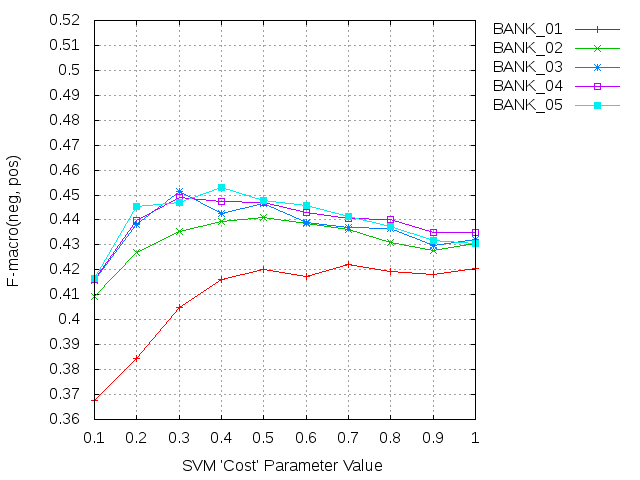
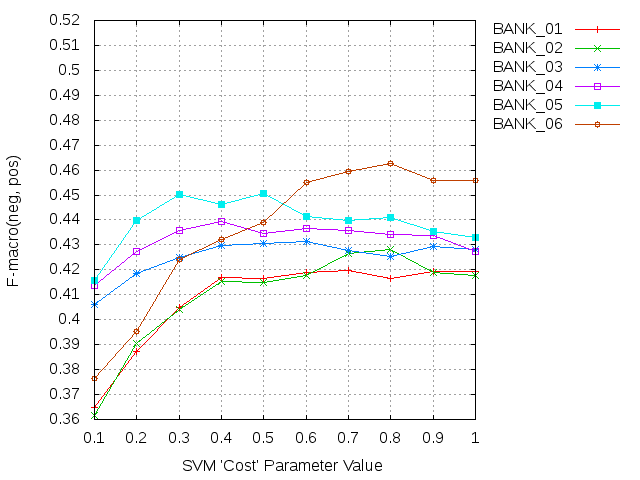
Исправлен график с результатом для bank, исправлено содержания (улучшения теперь рассматриваются после всех результатов), исправлены ошибки и формат таблиц

diff --git a/doc/aidt/tex/parts/2015/tables/settings.tex b/doc/aidt/tex/parts/2015/tables/settings.tex
@@ -4,13 +4,13 @@
 \label{table:settings}
 \begin{tabular}{cccccccccccc}
 \hline
-\multicolumn{1}{c|}{}  & \multicolumn{1}{c|}{}      & \multicolumn{1}{c|}{}                                                       & \multicolumn{3}{c|}{$L_{1}$}                                                            & \multicolumn{3}{c|}{$L_{2}$}                                                            & \multicolumn{3}{c}{$L_{3}$}                                           \\ \cline{4-12}
-\multicolumn{1}{c|}{№} & \multicolumn{1}{c|}{Terms} & \multicolumn{1}{c|}{\begin{tabular}[c]{@{}c@{}}All\\ features\end{tabular}} & \multicolumn{1}{c|}{$\sum$} & \multicolumn{1}{c|}{$max$} & \multicolumn{1}{c|}{$min$} & \multicolumn{1}{c|}{$\sum$} & \multicolumn{1}{c|}{$max$} & \multicolumn{1}{c|}{$min$} & \multicolumn{1}{c|}{$\sum$} & \multicolumn{1}{c|}{$max$} & $min$    \\ \hline
-1                      & $\bullet$                  &                                                                             &                             &                             &                             &                             &                             &                             &                             &                             &           \\
-2                      & $\bullet$                  & $\bullet$                                                                   &                             &                             &                             &                             &                             &                             &                             &                             &           \\
-3                      & $\bullet$                  & $\bullet$                                                                   & $\bullet$                   &                             &                             &                             &                             &                             &                             &                             &           \\
-4                      & $\bullet$                  & $\bullet$                                                                   & $\bullet$                   &                             &                             & $\bullet$                   &                             &                             &                             &                             &           \\
-5                      & $\bullet$                  & $\bullet$                                                                   & $\bullet$                   &                             &                             & $\bullet$                   &                             &                             & $\bullet$                   &                             &           \\
-6                      & $\bullet$                  & $\bullet$                                                                   & $\bullet$                   & $\bullet$                   & $\bullet$                   & $\bullet$                   & $\bullet$                   & $\bullet$                   & $\bullet$                   & $\bullet$                   & $\bullet$ \\ \hline
+\multicolumn{1}{c|}{\multirow{2}{*}{№}} & \multicolumn{1}{c|}{\multirow{2}{*}{Термы}} & \multicolumn{1}{c|}{\multirow{2}{*}{\begin{tabular}[c]{@{}c@{}}Все\\ признаки\end{tabular}}} & \multicolumn{3}{c|}{$l_{1}$}                                                                                      & \multicolumn{3}{c|}{$l_{2}$}                                                                                     & \multicolumn{3}{c}{$l_{3}$}                                                                 \\ \cline{4-12}
+\multicolumn{1}{c|}{}                   & \multicolumn{1}{c|}{}                       & \multicolumn{1}{c|}{}                                                                        & \multicolumn{1}{c|}{$\sum$} & \multicolumn{1}{c|}{$\max\limits_{1..N}$} & \multicolumn{1}{c|}{$\min\limits_{1..N}$} & \multicolumn{1}{c|}{$\sum$} & \multicolumn{1}{c|}{$\max\limits_{1..N}$} & \multicolumn{1}{c|}{$\min\limits_{1..N}$} & \multicolumn{1}{c|}{$\sum$} & \multicolumn{1}{c|}{$\max\limits_{1..N}$} & $\min\limits_{1..N}$ \\ \hline
+1                                       & $\bullet$                                   &                                                                                              &                             &                                          &                                          &                            &                                          &                                          &                            &                                          &                     \\
+2                                       & $\bullet$                                   & $\bullet$                                                                                    &                             &                                          &                                          &                            &                                          &                                          &                            &                                          &                     \\
+3                                       & $\bullet$                                   & $\bullet$                                                                                    & $\bullet$                   &                                          &                                          &                            &                                          &                                          &                            &                                          &                     \\
+4                                       & $\bullet$                                   & $\bullet$                                                                                    & $\bullet$                   &                                          &                                          & $\bullet$                  &                                          &                                          &                            &                                          &                     \\
+5                                       & $\bullet$                                   & $\bullet$                                                                                    & $\bullet$                   &                                          &                                          & $\bullet$                  &                                          &                                          & $\bullet$                  &                                          &                     \\
+6                                       & $\bullet$                                   & $\bullet$                                                                                    & $\bullet$                   & $\bullet$                                & $\bullet$                                & $\bullet$                  & $\bullet$                                & $\bullet$                                & $\bullet$                  & $\bullet$                                & $\bullet$           \\ \hline
 \end{tabular}
 \end{table}

diff --git a/doc/aidt/tex/parts/description/approach.tex b/doc/aidt/tex/parts/description/approach.tex
@@ -2,7 +2,7 @@
     \label{sec:buildingApproachDescription}
     В области классификации сообщений методами машинного обучения, использование
     {\it SVM} классификатора (в сравнении с {\it Naive Bayes}) обусловлено результатами
-    тестирования в \cite{svmAdvantages}, которые показывают преимущество SVM на униграммной
+    тестирования \cite{svmAdvantages}, которые показывают преимущество SVM на униграммной
     модели обработки сообщений.\footnote{
         Использование униграммной модели упрощает процесс обработки сообщения с
         точки зрения добавления метаинформации, в том числе и на основе лексиконов.
@@ -56,15 +56,13 @@
     Помимо термов, составляющих вектор сообщения, предполагается внести
     следующие признаки:
     \begin{itemize}
-        \item На основе числа тональных префиксов (см. формулу \ref{eq:prefix_sum}).
-
+        \item На основе числа тональных префиксов:
             \begin{gather}
                 \label{eq:prefix_sum}
                 E_+ - E_-
             \end{gather}
-
             $E_+$ -- число префиксов <<+>>; \hspace{0.1cm}
-            $E_-$ -- число префиксов <<->>;
+            $E_-$ -- число префиксов <<-->>;
 
         \item Подсчет количества термов, записанных в ВЕРХНЕМ РЕГИСТРЕ \cite{modernApproach};
 
@@ -80,6 +78,9 @@
             \end{gather}
             Если терм $t_i$ отсутствует в лексиконе, то в качестве коэффициента
             рассматривается $l_j(t_i) = 0$.
+            Если у терма $t_i$ присутствует тональный префикс <<-->>, то
+            рассматривается значение $-l_j(t_i)$.
+
             Дополнительно выполняется нормализация полученного значения в
             диапазоне $\left[ -1, 1 \right]$ на основе преобразования:
             \begin{numcases}{}

diff --git a/doc/aidt/tex/parts/description/tables/trainBalanced.tex b/doc/aidt/tex/parts/description/tables/trainBalanced.tex
@@ -5,11 +5,11 @@
     $\sum$ -- общее число сообщений в коллекции.
 }
 \label{table:balancedTrainCollections}
-\begin{tabular}{lllll}
-\hline
-\multirow{2}{*}{Название} & \multicolumn{2}{c}{BANK}                               & \multicolumn{2}{c}{TCC}                                \\
-                          & \multicolumn{1}{c}{$N_*$} & \multicolumn{1}{c}{$\sum$} & \multicolumn{1}{c}{$N_*$} & \multicolumn{1}{c}{$\sum$} \\ \hline
-$B_{15}$                & 3'400                     & 10'400                     & 2'269                     & 6'888                      \\
-$B_{16}$                & 6'756                     & 20'268                     & 4'870                     & 14'610                     \\ \hline
+\begin{tabular}{ccccc}
+    \hline
+    \multicolumn{1}{c|}{\multirow{2}{*}{Название}} & \multicolumn{2}{c|}{BANK}                                & \multicolumn{2}{c}{TCC}               \\ \cline{2-5}
+    \multicolumn{1}{c|}{}                          & \multicolumn{1}{c|}{$N_*$} & \multicolumn{1}{c|}{$\sum$} & \multicolumn{1}{c|}{$N_*$} & $\sum$   \\ \hline
+    $B_{15}$                                       & $3’400$                    & $10’400$                    & $2’269$                    & $6’888$  \\
+    $B_{16}$                                       & $6’756$                    & $20’268$                    & $4’870$                    & $14’610$ \\ \hline
 \end{tabular}
 \end{table}

diff --git a/doc/aidt/tex/parts/2015/tables/results.tex b/doc/aidt/tex/parts/2015/tables/results.tex
@@ -6,7 +6,7 @@
 \begin{tabular}{ccccc}
 \hline
 \multicolumn{1}{c|}{\multirow{2}{*}{№}} & \multicolumn{2}{c|}{BANK}                                                   & \multicolumn{2}{c}{TCC}                                                  \\ \cline{2-5}
-\multicolumn{1}{c|}{}                   & \multicolumn{1}{l|}{$I_{bank}^{15}$} & \multicolumn{1}{l|}{$B_{bank}^{15}$} & \multicolumn{1}{l|}{$I_{tcc}^{15}$} & \multicolumn{1}{l}{$B_{tcc}^{15}$} \\ \hline
+\multicolumn{1}{c|}{}                   & \multicolumn{1}{c|}{$I_{bank}^{15}$} & \multicolumn{1}{c|}{$B_{bank}^{15}$} & \multicolumn{1}{c|}{$I_{tcc}^{15}$} & \multicolumn{1}{c}{$B_{tcc}^{15}$} \\ \hline
 1                                       & $36.70$                              & $41.93$                              & $46.10$                             & $45.67$                            \\
 2                                       & $38.04$                              & $41.78$                              & $46.91$                             & $45.30$                            \\
 3                                       & $40.32$                              & $42.80$                              & $47.82$                             & $46.97$                            \\

diff --git a/doc/aidt/tex/parts/description/train.tex b/doc/aidt/tex/parts/description/train.tex
@@ -3,7 +3,7 @@
     Для обучения классификатора предполагается использовать соответствующие
     коллекции данных соревнований {\it SentiRuEval} (см. таблицу
     \ref{table:trainCollections}).
-    Коллекции $Imb_{bank}^{15}, Imb_{tcc}^{15}$ представляют собой объединение
+    Коллекции $I_{bank}^{16}, \hspace{0.1cm} I_{tcc}^{16}$ являются объединением
     размеченных экспертами данных за 2015 и 2016 года.
 
     \input{parts/description/tables/trainImbalanced}
@@ -41,7 +41,7 @@
             $N$ -- общее количество термов в сообщении $m$;
     \end{enumerate}
 
-    Таким образом были сбалансированы коллеции таблицы \ref{table:trainImbalanced}.
+    Таким образом были сбалансированы коллеции таблицы \ref{table:trainCollections}.
     Параметры дополнительно составленных коллекций представлены
     в таблице \ref{table:balancedTrainCollections}.
 

diff --git a/doc/aidt/tex/aidt.tex b/doc/aidt/tex/aidt.tex
@@ -103,11 +103,11 @@
 
     % Тестирование на коллекции 2015 года.
     \input{parts/2015/sentiRuEval2015}
-    % Улучшения
-    %\input{parts/2015/improvements}
-
     % Участие в соревнованиях 2016 года.
     %\input{parts/2016/sentiRuEval2016}
+
+    % Улучшения
+    \input{parts/improvements}
     % Информация об участниках.
     %\input{parts/2016/participants}
     % Вывод

diff --git a/doc/aidt/tex/parts/description/tables/lexicons.tex b/doc/aidt/tex/parts/description/tables/lexicons.tex
@@ -8,9 +8,9 @@
 \label{table:createdLexicons}
 \begin{tabular}{cccc}
 \hline
-№        & $T_+$  & $T_-$   & $\sum$  \\ \hline
-$L_1$    & 67'441 & 54'049  & 121'490 \\
-$L_2$    & 7'370  & 228'721 & 236'091 \\
-$L_3$    & 2'774  & 7'148   & 10'668  \\ \hline
+$L$      & $T_+$  & $T_-$   & $\sum$  \\ \hline
+$l_1$    & 67'441 & 54'049  & 121'490 \\
+$l_2$    & 7'370  & 228'721 & 236'091 \\
+$l_3$    & 2'774  & 7'148   & 10'668  \\ \hline
 \end{tabular}
 \end{table}

diff --git a/doc/aidt/tex/parts/2015/sentiRuEval2015.tex b/doc/aidt/tex/parts/2015/sentiRuEval2015.tex
@@ -34,5 +34,3 @@ $F_{1(macro)}^{PN}$.
 Так, например слово <<санкции>> может нести негативный характер в тестовой
 выборке, в то время как в обучающей колекции аналогичное слово является
 нейтральным.
-
-\input{parts/2015/improvements}
